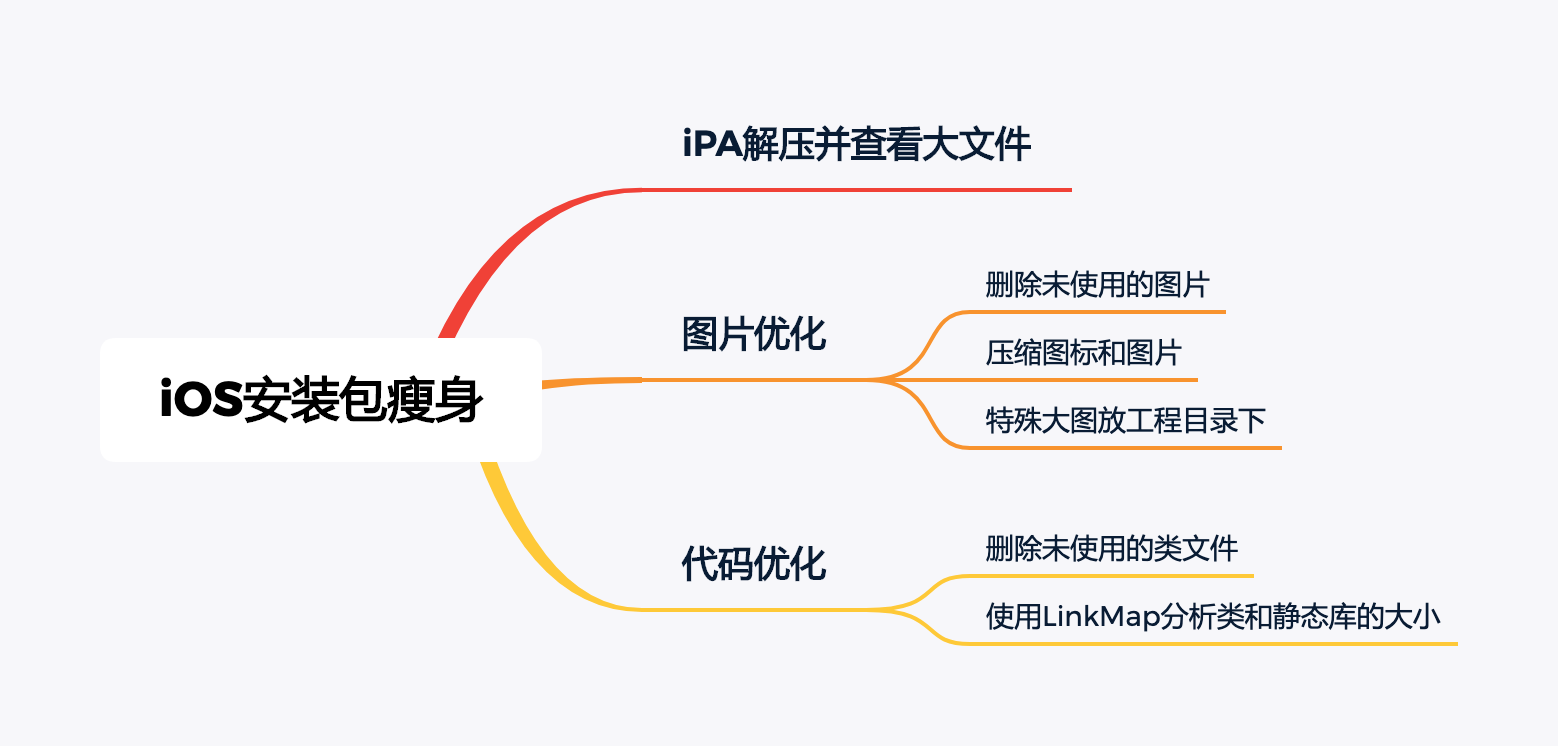
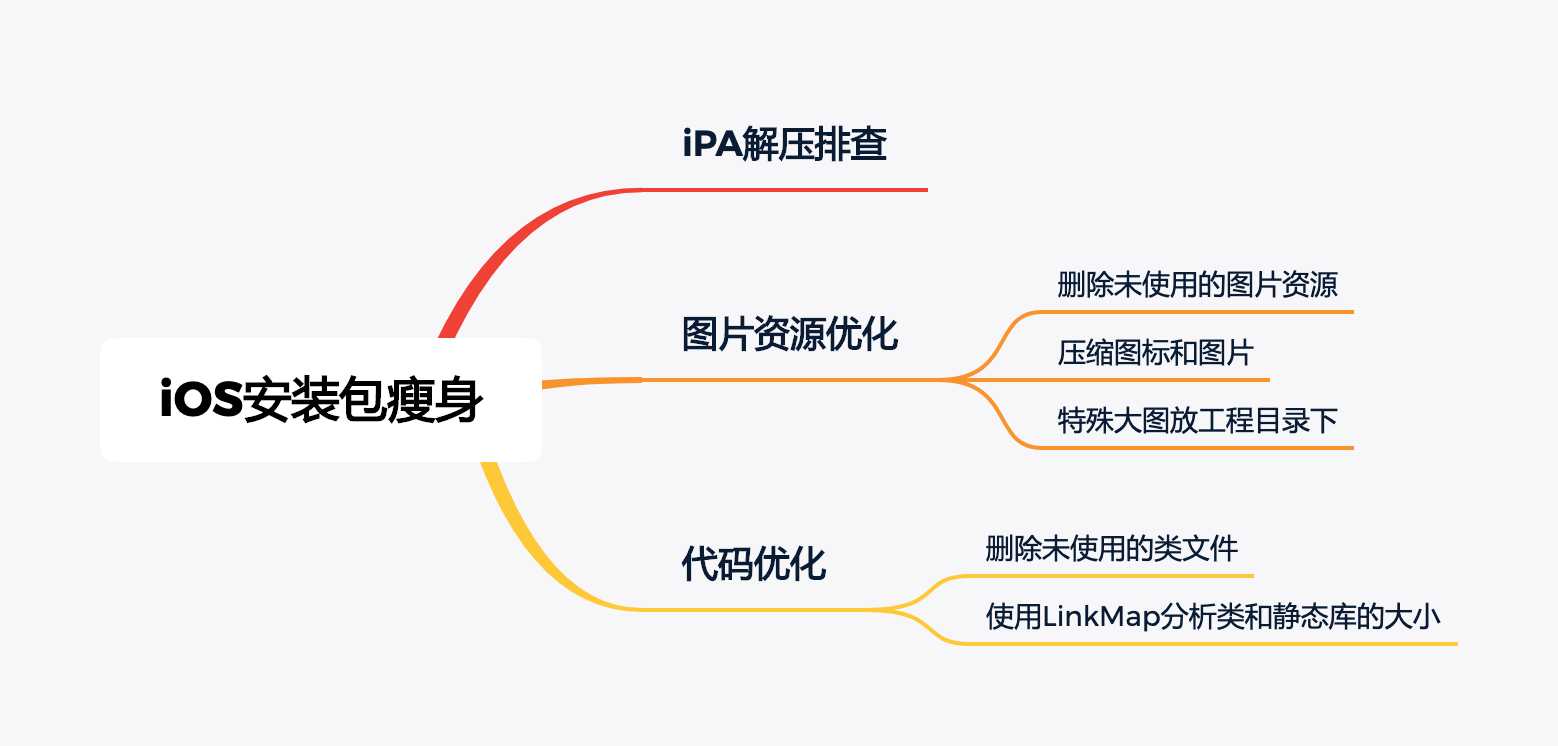
Site updated: 2020-08-01 17:28:56

Changed region(s): [[0.4621, 0.3391, 0.8626, 0.6166], [0.5237, 0.1542, 0.6778, 0.2158], [0.5854, 0.2466, 0.6778, 0.2775]]

diff --git a/2020/08/01/iOS安装包瘦身/index.html b/2020/08/01/iOS安装包瘦身/index.html
@@ -38,7 +38,7 @@
 <meta property="og:image" content="https://github.com/Blog/2020/08/01/iOS安装包瘦身/imageoptim4.png">
 <meta property="og:image" content="https://github.com/Blog/2020/08/01/iOS安装包瘦身/catclearprojecttool1.png">
 <meta property="og:image" content="https://github.com/Blog/2020/08/01/iOS安装包瘦身/catclearprojecttool2.png">
-<meta property="og:updated_time" content="2020-08-01T09:13:22.031Z">
+<meta property="og:updated_time" content="2020-08-01T09:26:45.234Z">
 <meta name="twitter:card" content="summary">
 <meta name="twitter:title" content="iOS安装包瘦身">
 <meta name="twitter:description" content="iPA解压排查iOS安装包瘦身时，最直接的办法就是，解压打包完的iPA，查找大文件，优化对应的大文件。  _CodeSignature：文件hash列表。里面有一个属性列表文件CodeResources，包含.app中所有文件的列表，里面是一个字典，key是文件名，value通常是Base64格式的散列值。它的作用是用来判断应用程序是否完好无损，防止资源文件修改损坏。  Assets.car：由">
@@ -234,9 +234,9 @@
 </li>
 </ul>
 <h2 id="图片资源优化"><a href="#图片资源优化" class="headerlink" title="图片资源优化"></a>图片资源优化</h2><h3 id="删除未使用的图片资源"><a href="#删除未使用的图片资源" class="headerlink" title="删除未使用的图片资源"></a>删除未使用的图片资源</h3><p>可以使用工具LSUnusedResources工具查找未使用的图片资源，工具下载地址：<a href="https://github.com/tinymind/LSUnusedResources。">https://github.com/tinymind/LSUnusedResources。</a><br><img src="/Blog/2020/08/01/iOS安装包瘦身/lsunusedresources.png" title="查找未使用的图片的截图1"><br><img src="/Blog/2020/08/01/iOS安装包瘦身/lsunusedresources2.png" title="查找未使用的图片的截图2"></p>
-<h3 id="压缩图片"><a href="#压缩图片" class="headerlink" title="压缩图片"></a>压缩图片</h3><p>对于一些较大的图标和图片可以使用工具ImageOptim压缩一下。<br><img src="/Blog/2020/08/01/iOS安装包瘦身/imageoptim1.png" title="图片压缩工具截图"><br><img src="/Blog/2020/08/01/iOS安装包瘦身/imageoptim2.png" title="图片压缩工具截图"><br><img src="/Blog/2020/08/01/iOS安装包瘦身/imageoptim3.png" title="图片压缩工具截图"><br><img src="/Blog/2020/08/01/iOS安装包瘦身/imageoptim4.png" title="图片压缩工具截图"></p>
-<h3 id="特定大图放工程目录下"><a href="#特定大图放工程目录下" class="headerlink" title="特定大图放工程目录下"></a>特定大图放工程目录下</h3><p>大图(例如游戏界面背景图)若放在.xcassets文件夹中，工程打包后大图的尺寸会变大，因此建议特定大图不要放在.xcassets中，放在工程目录下即可。</p>
-<h2 id="删除冗余代码"><a href="#删除冗余代码" class="headerlink" title="删除冗余代码"></a>删除冗余代码</h2><h3 id="查找未使用的类"><a href="#查找未使用的类" class="headerlink" title="查找未使用的类"></a>查找未使用的类</h3><p>使用CATClearProjectTool工具查找未使用的类，删除即可。<br><img src="/Blog/2020/08/01/iOS安装包瘦身/catclearprojecttool1.png" title="查找未使用的类"><br><img src="/Blog/2020/08/01/iOS安装包瘦身/catclearprojecttool2.png" title="查找未使用的类"></p>
+<h3 id="压缩图标和图片"><a href="#压缩图标和图片" class="headerlink" title="压缩图标和图片"></a>压缩图标和图片</h3><p>对于一些较大的图标和图片可以使用工具ImageOptim压缩一下。<br><img src="/Blog/2020/08/01/iOS安装包瘦身/imageoptim1.png" title="图片压缩工具截图"><br><img src="/Blog/2020/08/01/iOS安装包瘦身/imageoptim2.png" title="图片压缩工具截图"><br><img src="/Blog/2020/08/01/iOS安装包瘦身/imageoptim3.png" title="图片压缩工具截图"><br><img src="/Blog/2020/08/01/iOS安装包瘦身/imageoptim4.png" title="图片压缩工具截图"></p>
+<h3 id="特殊大图放工程目录下"><a href="#特殊大图放工程目录下" class="headerlink" title="特殊大图放工程目录下"></a>特殊大图放工程目录下</h3><p>大图(例如游戏界面背景图)若放在.xcassets文件夹中，工程打包后大图的尺寸会变大，因此建议特定大图不要放在.xcassets中，放在工程目录下即可。</p>
+<h2 id="删除冗余代码"><a href="#删除冗余代码" class="headerlink" title="删除冗余代码"></a>删除冗余代码</h2><h3 id="删除未使用的类文件"><a href="#删除未使用的类文件" class="headerlink" title="删除未使用的类文件"></a>删除未使用的类文件</h3><p>使用CATClearProjectTool工具查找未使用的类，删除即可。<br><img src="/Blog/2020/08/01/iOS安装包瘦身/catclearprojecttool1.png" title="查找未使用的类"><br><img src="/Blog/2020/08/01/iOS安装包瘦身/catclearprojecttool2.png" title="查找未使用的类"></p>
 <h3 id="使用LinkMap分析类文件和静态库的大小"><a href="#使用LinkMap分析类文件和静态库的大小" class="headerlink" title="使用LinkMap分析类文件和静态库的大小"></a>使用LinkMap分析类文件和静态库的大小</h3><p>使用LinkMap工具可以分析具体类文件和静态库大小，工具下载地址：<a href="https://github.com/huanxsd/LinkMap。">https://github.com/huanxsd/LinkMap。</a></p>
 
     </div>
@@ -318,7 +318,7 @@
 
       <!--noindex-->
       <div class="post-toc-wrap sidebar-panel">
-          <div class="post-toc motion-element"><ol class="nav"><li class="nav-item nav-level-2"><a class="nav-link" href="#iPA解压排查"><span class="nav-number">1.</span> <span class="nav-text">iPA解压排查</span></a></li><li class="nav-item nav-level-2"><a class="nav-link" href="#图片资源优化"><span class="nav-number">2.</span> <span class="nav-text">图片资源优化</span></a><ol class="nav-child"><li class="nav-item nav-level-3"><a class="nav-link" href="#删除未使用的图片资源"><span class="nav-number">2.1.</span> <span class="nav-text">删除未使用的图片资源</span></a></li><li class="nav-item nav-level-3"><a class="nav-link" href="#压缩图片"><span class="nav-number">2.2.</span> <span class="nav-text">压缩图片</span></a></li><li class="nav-item nav-level-3"><a class="nav-link" href="#特定大图放工程目录下"><span class="nav-number">2.3.</span> <span class="nav-text">特定大图放工程目录下</span></a></li></ol></li><li class="nav-item nav-level-2"><a class="nav-link" href="#删除冗余代码"><span class="nav-number">3.</span> <span class="nav-text">删除冗余代码</span></a><ol class="nav-child"><li class="nav-item nav-level-3"><a class="nav-link" href="#查找未使用的类"><span class="nav-number">3.1.</span> <span class="nav-text">查找未使用的类</span></a></li><li class="nav-item nav-level-3"><a class="nav-link" href="#使用LinkMap分析类文件和静态库的大小"><span class="nav-number">3.2.</span> <span class="nav-text">使用LinkMap分析类文件和静态库的大小</span></a></li></ol></li></ol></div>
+          <div class="post-toc motion-element"><ol class="nav"><li class="nav-item nav-level-2"><a class="nav-link" href="#iPA解压排查"><span class="nav-number">1.</span> <span class="nav-text">iPA解压排查</span></a></li><li class="nav-item nav-level-2"><a class="nav-link" href="#图片资源优化"><span class="nav-number">2.</span> <span class="nav-text">图片资源优化</span></a><ol class="nav-child"><li class="nav-item nav-level-3"><a class="nav-link" href="#删除未使用的图片资源"><span class="nav-number">2.1.</span> <span class="nav-text">删除未使用的图片资源</span></a></li><li class="nav-item nav-level-3"><a class="nav-link" href="#压缩图标和图片"><span class="nav-number">2.2.</span> <span class="nav-text">压缩图标和图片</span></a></li><li class="nav-item nav-level-3"><a class="nav-link" href="#特殊大图放工程目录下"><span class="nav-number">2.3.</span> <span class="nav-text">特殊大图放工程目录下</span></a></li></ol></li><li class="nav-item nav-level-2"><a class="nav-link" href="#删除冗余代码"><span class="nav-number">3.</span> <span class="nav-text">删除冗余代码</span></a><ol class="nav-child"><li class="nav-item nav-level-3"><a class="nav-link" href="#删除未使用的类文件"><span class="nav-number">3.1.</span> <span class="nav-text">删除未使用的类文件</span></a></li><li class="nav-item nav-level-3"><a class="nav-link" href="#使用LinkMap分析类文件和静态库的大小"><span class="nav-number">3.2.</span> <span class="nav-text">使用LinkMap分析类文件和静态库的大小</span></a></li></ol></li></ol></div>
       </div>
       <!--/noindex-->
 

diff --git a/index.html b/index.html
@@ -221,9 +221,9 @@
 </li>
 </ul>
 <h2 id="图片资源优化"><a href="#图片资源优化" class="headerlink" title="图片资源优化"></a>图片资源优化</h2><h3 id="删除未使用的图片资源"><a href="#删除未使用的图片资源" class="headerlink" title="删除未使用的图片资源"></a>删除未使用的图片资源</h3><p>可以使用工具LSUnusedResources工具查找未使用的图片资源，工具下载地址：<a href="https://github.com/tinymind/LSUnusedResources。">https://github.com/tinymind/LSUnusedResources。</a><br><img src="/Blog/2020/08/01/iOS安装包瘦身/lsunusedresources.png" title="查找未使用的图片的截图1"><br><img src="/Blog/2020/08/01/iOS安装包瘦身/lsunusedresources2.png" title="查找未使用的图片的截图2"></p>
-<h3 id="压缩图片"><a href="#压缩图片" class="headerlink" title="压缩图片"></a>压缩图片</h3><p>对于一些较大的图标和图片可以使用工具ImageOptim压缩一下。<br><img src="/Blog/2020/08/01/iOS安装包瘦身/imageoptim1.png" title="图片压缩工具截图"><br><img src="/Blog/2020/08/01/iOS安装包瘦身/imageoptim2.png" title="图片压缩工具截图"><br><img src="/Blog/2020/08/01/iOS安装包瘦身/imageoptim3.png" title="图片压缩工具截图"><br><img src="/Blog/2020/08/01/iOS安装包瘦身/imageoptim4.png" title="图片压缩工具截图"></p>
-<h3 id="特定大图放工程目录下"><a href="#特定大图放工程目录下" class="headerlink" title="特定大图放工程目录下"></a>特定大图放工程目录下</h3><p>大图(例如游戏界面背景图)若放在.xcassets文件夹中，工程打包后大图的尺寸会变大，因此建议特定大图不要放在.xcassets中，放在工程目录下即可。</p>
-<h2 id="删除冗余代码"><a href="#删除冗余代码" class="headerlink" title="删除冗余代码"></a>删除冗余代码</h2><h3 id="查找未使用的类"><a href="#查找未使用的类" class="headerlink" title="查找未使用的类"></a>查找未使用的类</h3><p>使用CATClearProjectTool工具查找未使用的类，删除即可。<br><img src="/Blog/2020/08/01/iOS安装包瘦身/catclearprojecttool1.png" title="查找未使用的类"><br><img src="/Blog/2020/08/01/iOS安装包瘦身/catclearprojecttool2.png" title="查找未使用的类"></p>
+<h3 id="压缩图标和图片"><a href="#压缩图标和图片" class="headerlink" title="压缩图标和图片"></a>压缩图标和图片</h3><p>对于一些较大的图标和图片可以使用工具ImageOptim压缩一下。<br><img src="/Blog/2020/08/01/iOS安装包瘦身/imageoptim1.png" title="图片压缩工具截图"><br><img src="/Blog/2020/08/01/iOS安装包瘦身/imageoptim2.png" title="图片压缩工具截图"><br><img src="/Blog/2020/08/01/iOS安装包瘦身/imageoptim3.png" title="图片压缩工具截图"><br><img src="/Blog/2020/08/01/iOS安装包瘦身/imageoptim4.png" title="图片压缩工具截图"></p>
+<h3 id="特殊大图放工程目录下"><a href="#特殊大图放工程目录下" class="headerlink" title="特殊大图放工程目录下"></a>特殊大图放工程目录下</h3><p>大图(例如游戏界面背景图)若放在.xcassets文件夹中，工程打包后大图的尺寸会变大，因此建议特定大图不要放在.xcassets中，放在工程目录下即可。</p>
+<h2 id="删除冗余代码"><a href="#删除冗余代码" class="headerlink" title="删除冗余代码"></a>删除冗余代码</h2><h3 id="删除未使用的类文件"><a href="#删除未使用的类文件" class="headerlink" title="删除未使用的类文件"></a>删除未使用的类文件</h3><p>使用CATClearProjectTool工具查找未使用的类，删除即可。<br><img src="/Blog/2020/08/01/iOS安装包瘦身/catclearprojecttool1.png" title="查找未使用的类"><br><img src="/Blog/2020/08/01/iOS安装包瘦身/catclearprojecttool2.png" title="查找未使用的类"></p>
 <h3 id="使用LinkMap分析类文件和静态库的大小"><a href="#使用LinkMap分析类文件和静态库的大小" class="headerlink" title="使用LinkMap分析类文件和静态库的大小"></a>使用LinkMap分析类文件和静态库的大小</h3><p>使用LinkMap工具可以分析具体类文件和静态库大小，工具下载地址：<a href="https://github.com/huanxsd/LinkMap。">https://github.com/huanxsd/LinkMap。</a></p>
 
       

diff --git a/css/main.css b/css/main.css
@@ -1168,7 +1168,7 @@ pre .javascript .function {
 }
 .links-of-author a::before,
 .links-of-author span.exturl::before {
-  background: #ff6603;
+  background: #0070db;
   border-radius: 50%;
   content: ' ';
   display: inline-block;
